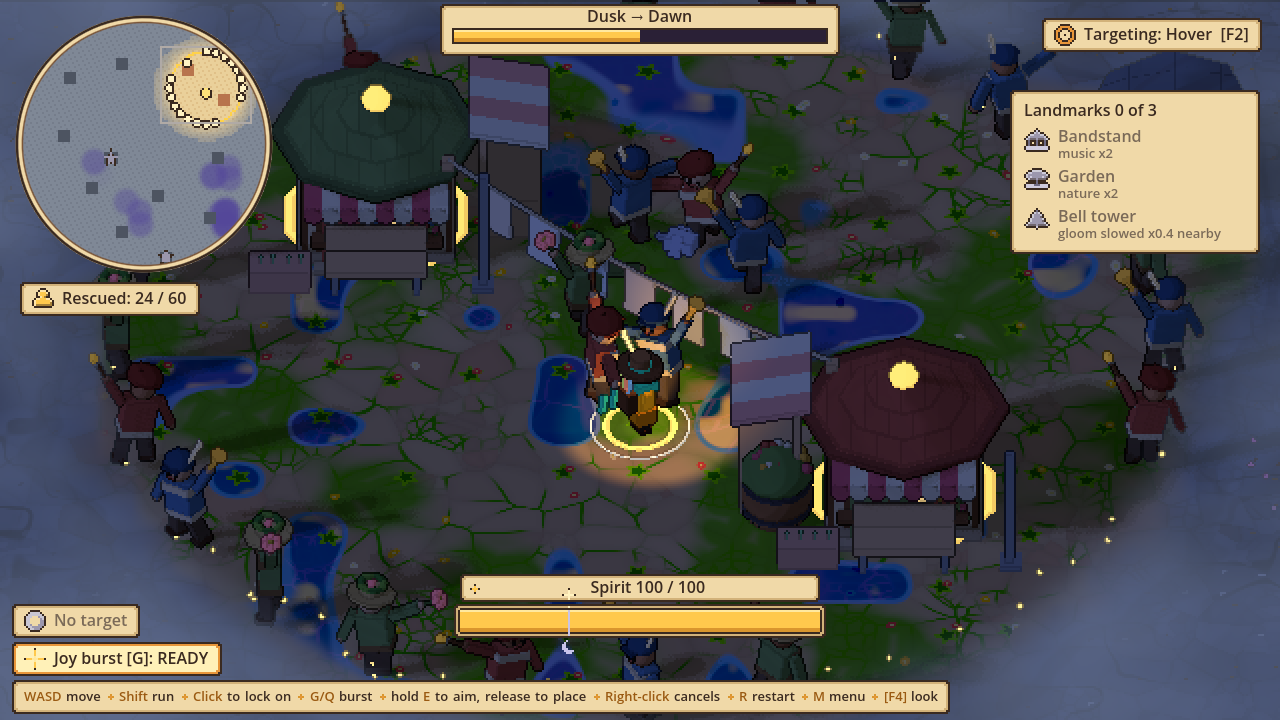
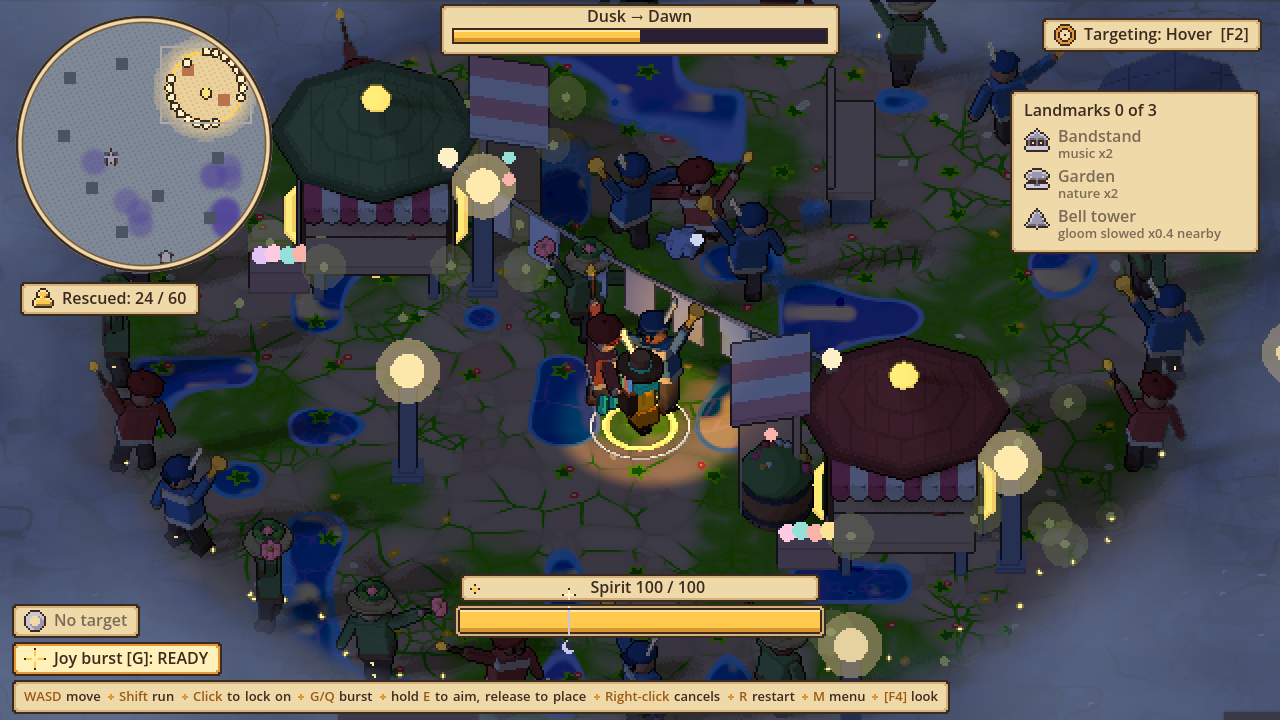
Props (#48): plaza props on a lattice, bigger warmer lamps and benches, soft balls now visible
Diagnosis: in a normal night 0 props were in the play-zoom frame (34.7 x 30 m) round the middle or the
opening: every prop stood at a block, 25 m or more out, so the cause was placement first, then size and
contrast. A second cause: the soft balls (lamp glow, planter flowers, stall goods, fireflies) were painted
over by the post-process quad (priority 0) and never showed; they now draw at L31_SOFT_PRIORITY.
Plaza props: a 12 m lattice over the open plaza (no spot within 6.5 m of a block or landmark, 4 m of the
start, 5 m of the edge), deterministic, 4+ props in frame anywhere. Lamps x1.35 and benches x1.4 on top of
L31_PROP_SCALE, benches lift 0.8, lamp glow never below 0.7. Scenery only; MultiMesh kept.

Refs #48

diff --git a/SOURCE_MAP.md b/SOURCE_MAP.md
@@ -170,13 +170,13 @@ extends Node3D | 1 const | Round 22: the world marks for the burst (G/Q), drawn 
 - L88 `streak_count() -> int`
 
 ### scripts/config.gd (Config)
-extends ConfigBase | 379 const | Round 19 onward: tuning values and the tiny pure helpers. Older constants live in config_base.gd (ConfigBas...
-- L637 `static intro_on() -> bool` - True when the layered introduction (round 13b) is on: always in the game, never under automated tests, unle...
-- L645 `static tides_on() -> bool` - Round 25: the gloom tides run in the game and not under automated tests (like the intro), so the older scen...
-- L652 `static multiplier(element: int, affinity: int) -> float` - Returns how much a hit with `element` is multiplied when the person has `affinity`.
-- L661 `static falloff(distance: float) -> float` - Returns the strength of a hit at `distance` metres: 1.0 up close, falling to FALLOFF_MIN far away.
-- L671 `static gloom_level(g: float) -> int` - Returns the visible grey level (0 light, 1 grey, 2 dimmed) for a hidden gloom value.
-- L682 `static is_automated_test() -> bool` - True when the game is running under the automated tests (tools/run_tests.py): the POSITIVEFPS_TEST=1 enviro...
+extends ConfigBase | 389 const | Round 19 onward: tuning values and the tiny pure helpers. Older constants live in config_base.gd (ConfigBas...
+- L652 `static intro_on() -> bool` - True when the layered introduction (round 13b) is on: always in the game, never under automated tests, unle...
+- L660 `static tides_on() -> bool` - Round 25: the gloom tides run in the game and not under automated tests (like the intro), so the older scen...
+- L667 `static multiplier(element: int, affinity: int) -> float` - Returns how much a hit with `element` is multiplied when the person has `affinity`.
+- L676 `static falloff(distance: float) -> float` - Returns the strength of a hit at `distance` metres: 1.0 up close, falling to FALLOFF_MIN far away.
+- L686 `static gloom_level(g: float) -> int` - Returns the visible grey level (0 light, 1 grey, 2 dimmed) for a hidden gloom value.
+- L697 `static is_automated_test() -> bool` - True when the game is running under the automated tests (tools/run_tests.py): the POSITIVEFPS_TEST=1 enviro...
 
 ### scripts/config_base.gd (ConfigBase)
 extends RefCounted | 370 const | All tuning values for the prototype live here. Change a number and run the game to feel the difference.
@@ -740,17 +740,19 @@ extends RefCounted | 5 const | The styled bodies (ported from design/style_test/
 
 ### scripts/looks/style_props.gd (StyleProps)
 extends Node3D | 18 const | Checkpoint 7: street props in the styled look. Lamp posts, benches, planters and market stalls round the bl...
-- L122 `static attach(level: TopDownMain) -> StyleProps` - Builds the props under `level` (TopDownMain keeps the node in `style_props`).
-- L130 `static day_factor(sun_energy: float) -> float` - 1 by day, 0 at night, for a sun energy (NightCycle.sun_energy).
-- L135 `static layout_props(centres: Array[Vector3]) -> Array[Prop]` - The scenery of every block: a lamp, a bench, a planter and (every other block) a stall, from the block cent...
-- L150 `static layout_lines(centres: Array[Vector3], max_dist: float) -> Array[Line]` - A line from each block to its two nearest neighbours that are closer than `max_dist` (no pair twice).
-- L189 `static make_layers(parent: Node3D) -> Layers` - The mesh layers under `parent`: opaque boxes with toon bands, and soft unlit balls.
-- L250 `refresh(delta: float) -> void` - Moves every prop's bloom `delta` seconds toward its target and redraws all the props.
-- L262 `bench_positions() -> Array[Vector3]` - The positions of the benches (scenery only; the ambient life reads them).
-- L320 `static tone(bare: Color, warm: Color, bloom: float) -> Color` - 0.3.1: a prop's bare colour lifts toward its warm colour (by L31_PROP_LIFT at least) so it reads on the gre...
-- L325 `static big(v: Vector3) -> Vector3` - A local size or offset drawn L31_PROP_SCALE times bigger.
-- L406 `static line_shown(unfurl: float) -> bool` - 0.3.1: no bare line in gloom (a line over grey buildings read as a line on the ground). A line shows only once
-- L411 `static post_growth(unfurl: float) -> float` - How far the posts have grown (0 on the ground, 1 at roof height) for a line that is `unfurl` unfurled.
+- L123 `static attach(level: TopDownMain) -> StyleProps` - Builds the props under `level` (TopDownMain keeps the node in `style_props`).
+- L131 `static day_factor(sun_energy: float) -> float` - 1 by day, 0 at night, for a sun energy (NightCycle.sun_energy).
+- L136 `static layout_props(centres: Array[Vector3]) -> Array[Prop]` - The scenery of every block: a lamp, a bench, a planter and (every other block) a stall, from the block cent...
+- L154 `static layout_plaza(centres: Array[Vector3], landmarks: Array[Vector3], half: float, step: float = Config.L31_PLAZA_SPACING) -> Array[Prop]` - 0.3.1 (#48): props in the open plaza, on a lattice `L31_PLAZA_SPACING` apart (offset half a step so the pla...
+- L184 `static layout_lines(centres: Array[Vector3], max_dist: float) -> Array[Line]` - A line from each block to its two nearest neighbours that are closer than `max_dist` (no pair twice).
+- L223 `static make_layers(parent: Node3D) -> Layers` - The mesh layers under `parent`: opaque boxes with toon bands, and soft unlit balls.
+- L290 `refresh(delta: float) -> void` - Moves every prop's bloom `delta` seconds toward its target and redraws all the props.
+- L302 `bench_positions() -> Array[Vector3]` - The positions of the benches (scenery only; the ambient life reads them).
+- L360 `static tone(bare: Color, warm: Color, bloom: float, lift: float = -1.0) -> Color` - 0.3.1: a prop's bare colour lifts toward its warm colour (by L31_PROP_LIFT at least) so it reads on the gre...
+- L366 `static big(v: Vector3) -> Vector3` - A local size or offset drawn L31_PROP_SCALE times bigger.
+- L371 `static bench_big(v: Vector3) -> Vector3` - A bench's local size or offset: L31_BENCH_SCALE bigger again than the other props.
+- L458 `static line_shown(unfurl: float) -> bool` - 0.3.1: no bare line in gloom (a line over grey buildings read as a line on the ground). A line shows only once
+- L463 `static post_growth(unfurl: float) -> float` - How far the posts have grown (0 on the ground, 1 at roof height) for a line that is `unfurl` unfurled.
 
 ### scripts/looks/style_push.gd (StylePush)
 extends RefCounted | 1 const | The styled gloom tide. 0.3.1: the wave is a low, churning storm cloud (shaders/style_cloud.gdshader): rows...
@@ -1089,6 +1091,7 @@ extends Control | 0 const | Checkpoint 5: the wobble alert. A drained rescued pe
 - stage_change_test (tests/stage_change_test.gd): 4 tests
 - stagger_test (tests/stagger_test.gd): 3 tests
 - stretch_safety_test (tests/stretch_safety_test.gd): 7 tests
+- style_props_plaza_test (tests/style_props_plaza_test.gd): 6 tests
 - style_scenery_test (tests/style_scenery_test.gd): 19 tests
 - targeting_test (tests/targeting_test.gd): 11 tests
 - topdown_crowd_test (tests/topdown_crowd_test.gd): 8 tests
